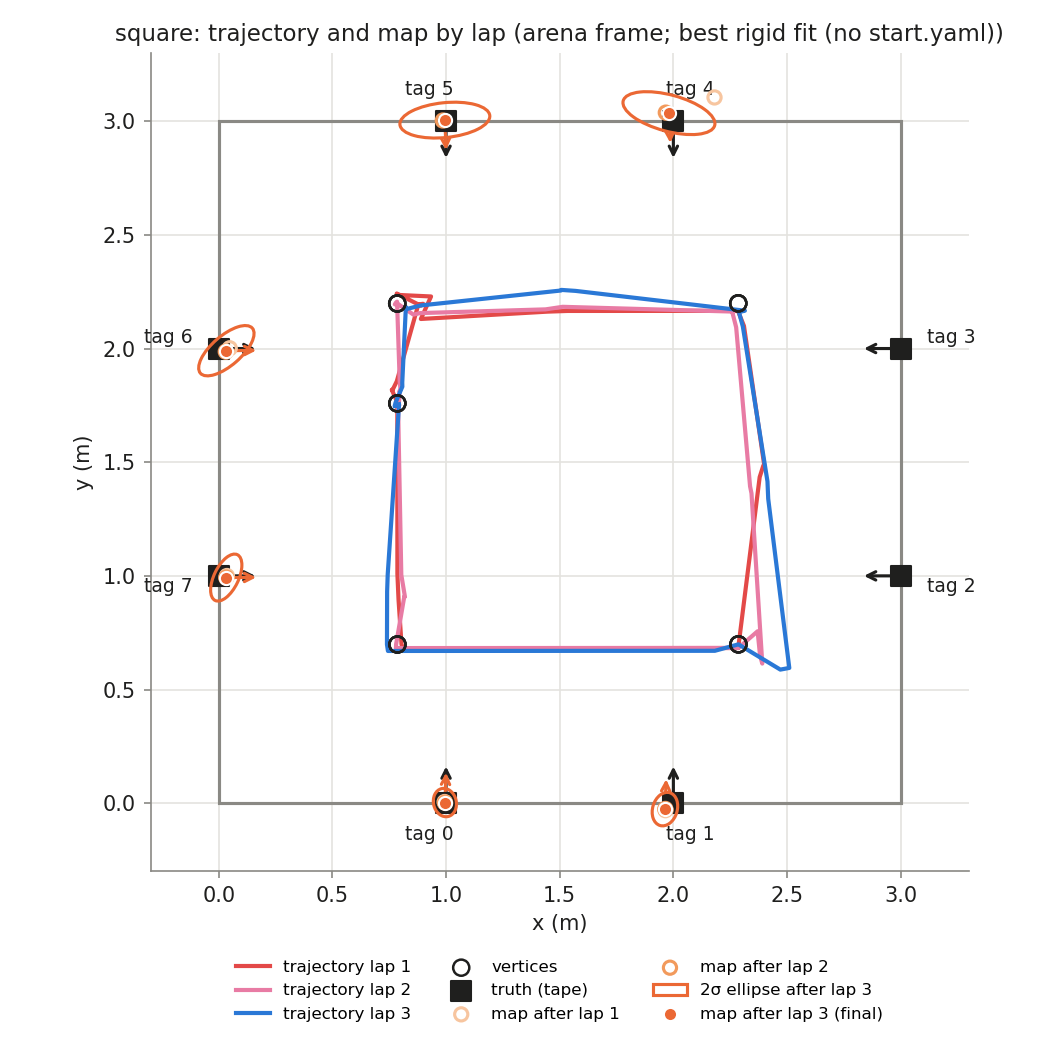
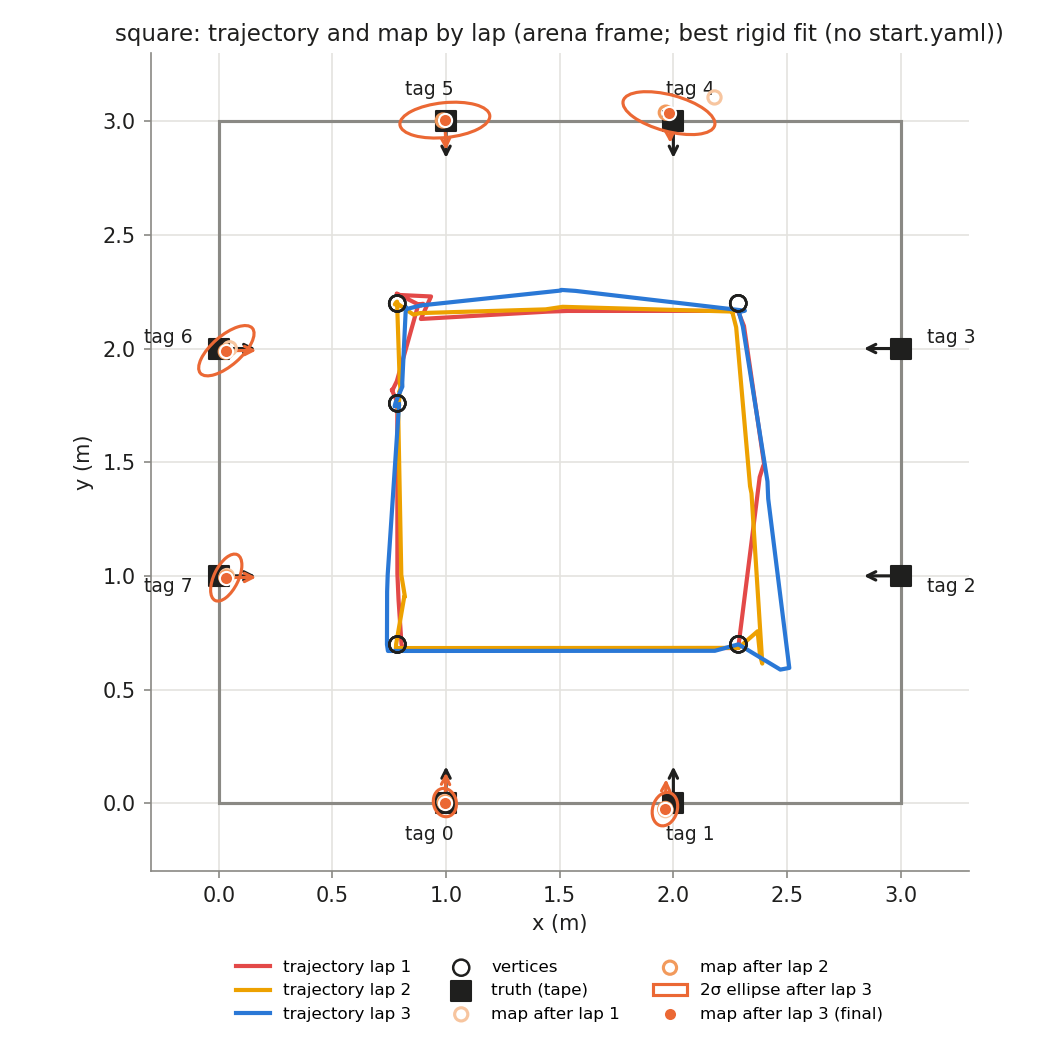
update the map drawing colors again
trajectory lap 2 yellow instead of pink.

diff --git a/HW3/report_run.py b/HW3/report_run.py
@@ -306,7 +306,7 @@ def style(ax):
     ax.tick_params(colors=MUTED, labelcolor=INK)
 
 
-TRAJ_LAP_COLORS = [SERIES[7], SERIES[4], SERIES[0]]     # red, pink, blue: lap 1 -> 3
+TRAJ_LAP_COLORS = [SERIES[7], SERIES[3], SERIES[0]]     # red, yellow, blue: lap 1 -> 3
 LM_LAP_COLORS = ['#f7c59f', '#f29a5c', SERIES[1]]        # light -> full orange: lap 1 -> 3
 
 
